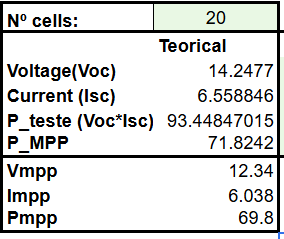
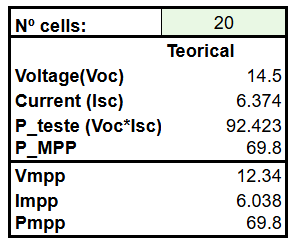
.

diff --git a/Latex/Chapters/Lab_res/lab_res.tex b/Latex/Chapters/Lab_res/lab_res.tex
@@ -122,6 +122,8 @@
 
             \textcolor{red}{O mesmo aconte na zona dos sensors de current. }
 
+            \textcolor{red}{Já np lado de baixo da placa, apenas observamos um aumento de temperatura no transistor (a imagem está shiftada para baixo/cima), porem muito menor do que o aumento no condesador.}
+
             \begin{figure}[!ht] 
                 \centering 
                 \begin{minipage}{0.49\textwidth}
@@ -142,13 +144,18 @@
 
         \subsubsection{Efficiency and voltage and current ripples.}
         
+            Potencia perdida com o circuito desligado, + boost, e todos os casos.
+
+            cerca de 0.43w só para ter tudo ligado á volta do boost. Se ligarmos o PWM sem load esta potencia aumenta para 1.01w. O sensor de corrente não mede esta corrente e por isso mede sempre 0 A no caso de OC. (neste caso a corrente é tão baixa que praticamente não há perdas nos cabos)
+
+            Muitas perdas nos cabos. Resitencia dos cabos de entrada = 0.09 Ohm e dos cabos de saida 0.2 ohm
 
 
-        \textcolor{red}{Efficiency, voltage and current ripple}
+            \textcolor{red}{Efficiency, voltage and current ripple}
 
-        \textcolor{red}{Losses analysis}
+            \textcolor{red}{Losses analysis}
 
-        \textcolor{red}{temperature analysis}
+            \textcolor{red}{temperature analysis}
 
 \section{MPPT}
     \subsection{Setup}
